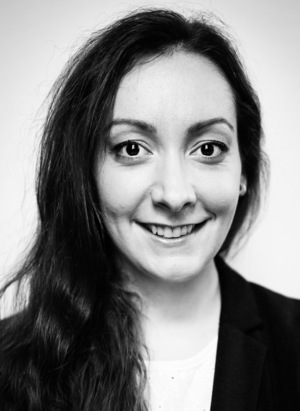
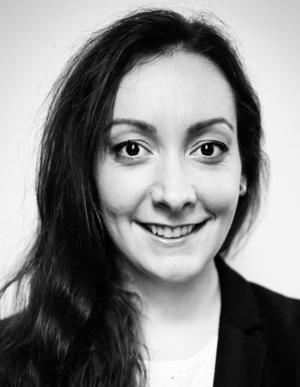
Add hover effect on About section Picture

diff --git a/components/About.vue b/components/About.vue
@@ -1,7 +1,7 @@
 <template>
-  <section class="min-h-screen">
+  <section class="flex flex-col justify-center" style="min-height: 100vh">
     <section-title title="A propos" />
-    <div class="flex flex-col md:flex-row mt-7">
+    <div class="flex flex-col items-start md:flex-row mt-7">
       <div class="md:w-2/3 mr-7">
         <p class="font-sans text-lg text-black dark:text-white mb-4">
           Après un parcours scientifique, j'ai décidé de m'orienter vers un
@@ -34,11 +34,26 @@
         </p>
 
         <ul class="font-sans text-lg text-black dark:text-white mb-4">
-          <li>✔ Écosystème VueJS ( VueX / VueRouter / Vuetify )</li>
-          <li>✔ HTML / CSS ou Javascript (ES6+)</li>
-          <li>✔ Strapi / Sanity (headless CMS)</li>
-          <li>✔ Git / Github</li>
-          <li>✔ Méthodes Agiles / Scrum</li>
+          <li>
+            <span class="text-burgundy dark:text-gold font-semibold">✔</span>
+            Écosystème VueJS ( VueX / VueRouter / Vuetify )
+          </li>
+          <li>
+            <span class="text-burgundy dark:text-gold font-semibold">✔</span>
+            HTML / CSS / Javascript (ES6+)
+          </li>
+          <li>
+            <span class="text-burgundy dark:text-gold font-semibold">✔</span>
+            Strapi / Sanity (headless CMS)
+          </li>
+          <li>
+            <span class="text-burgundy dark:text-gold font-semibold">✔</span>
+            Git / Github
+          </li>
+          <li>
+            <span class="text-burgundy dark:text-gold font-semibold">✔</span>
+            Méthodes Agiles / Scrum
+          </li>
         </ul>
 
         <p class="font-sans text-lg text-black dark:text-white mb-4">
@@ -46,19 +61,49 @@
         </p>
 
         <ul class="font-sans text-lg text-black dark:text-white mb-4">
-          <li>✔ NuxtJS</li>
-          <li>✔ JavaScript Testing Framework - Jest, Cypress</li>
+          <li>
+            <span class="text-burgundy dark:text-gold font-semibold">✔</span>
+            NuxtJS
+          </li>
+          <li>
+            <span class="text-burgundy dark:text-gold font-semibold">✔</span>
+            JavaScript Testing Framework - Jest / Cypress
+          </li>
         </ul>
       </div>
-      <div class="card mt-10 md:mt-0 mx-auto md:mx-0">
+      <div
+        class="
+          relative
+          my-10
+          mx-auto
+          md:mt-0 md:mx-0
+          after:border after:border-burgundy
+          dark:after:border-gold
+          after:w-full after:h-full after:absolute after:top-5 after:left-5
+          hover:after:top-3 hover:after:left-3
+          after:transition-all after:duration-300
+          hover:after:transition-all hover:after:duration-300
+          after:z-1
+        "
+      >
         <img
           src="~/assets/images/b&w.jpg"
-          class="z-0"
+          class="relative"
+          style="z-index: 2"
           alt="Justine Hell - by Joz' ma vie"
         />
         <img
           src="~/assets/images/colored.jpg"
-          class="card-image transition duration-300"
+          class="
+            opacity-0
+            absolute
+            top-0
+            left-0
+            hover:opacity-100 hover:filter hover:saturate-75
+            transition-all
+            duration-300
+          "
+          style="z-index: 2"
           alt="Justine Hell - by Joz' ma vie"
         />
       </div>
@@ -74,20 +119,3 @@ export default {
   },
 }
 </script>
-<style scoped>
-.card {
-  position: relative;
-}
-.card .card-image {
-  opacity: 0;
-  position: absolute;
-  top: 0;
-  left: 0;
-  z-index: 1;
-}
-.card:hover .card-image {
-  opacity: 1;
-  transition: all 300ms;
-  filter: saturate(75%);
-}
-</style>

diff --git a/tailwind.config.js b/tailwind.config.js
@@ -25,10 +25,18 @@ module.exports = {
         'light-gray': '#F2F2F2',
         'dark-gray': '#2E2C28',
       },
+      zIndex: {
+        '-1': '-1',
+      },
+      saturate: {
+        75: '.75',
+      },
     },
   },
   variants: {
-    extend: {},
+    extend: {
+      inset: ['hover'],
+    },
   },
   plugins: [],
 }

diff --git a/components/Contact.vue b/components/Contact.vue
@@ -1,5 +1,5 @@
 <template>
-  <section class="pb-48">
+  <section class="flex flex-col justify-center" style="min-height: 100vh">
     <section-title title="Contact" class="justify-center" />
     <div class="flex flex-col mt-7">
       <h2
